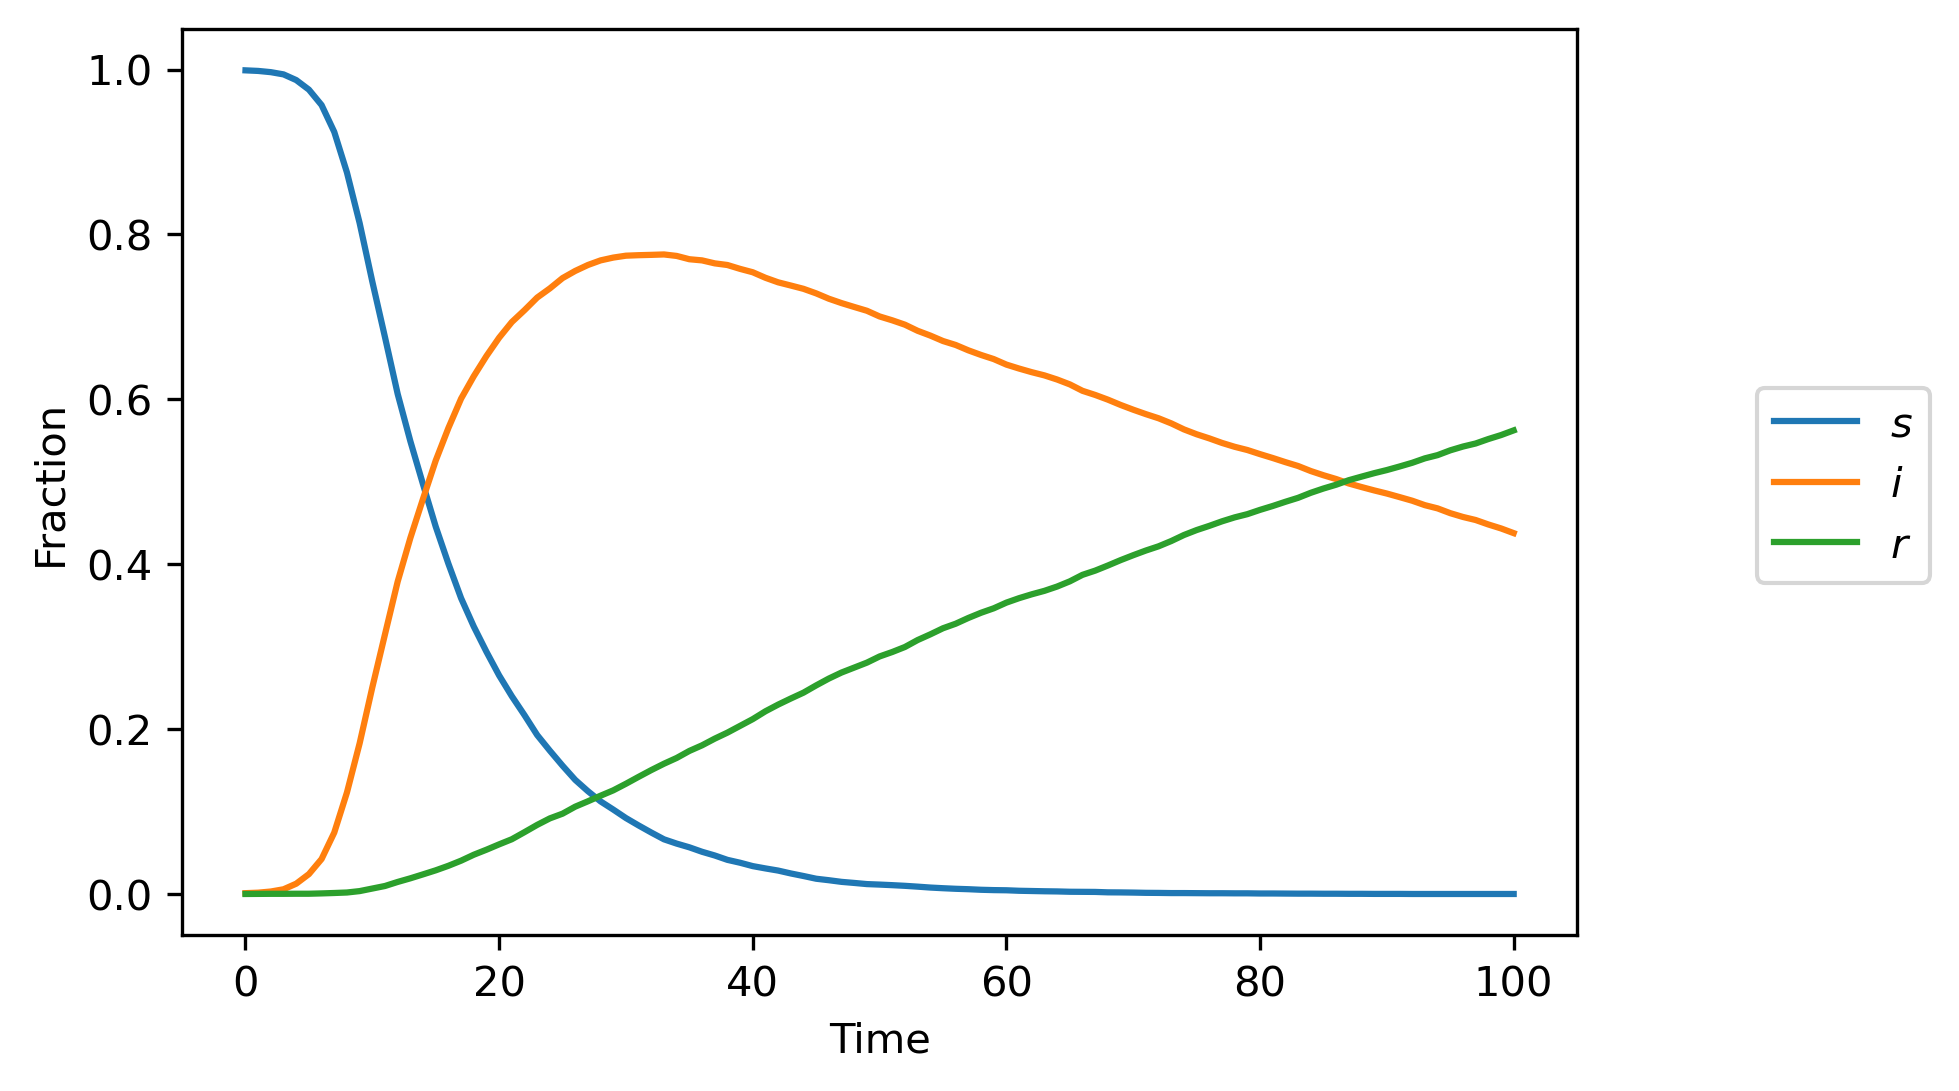
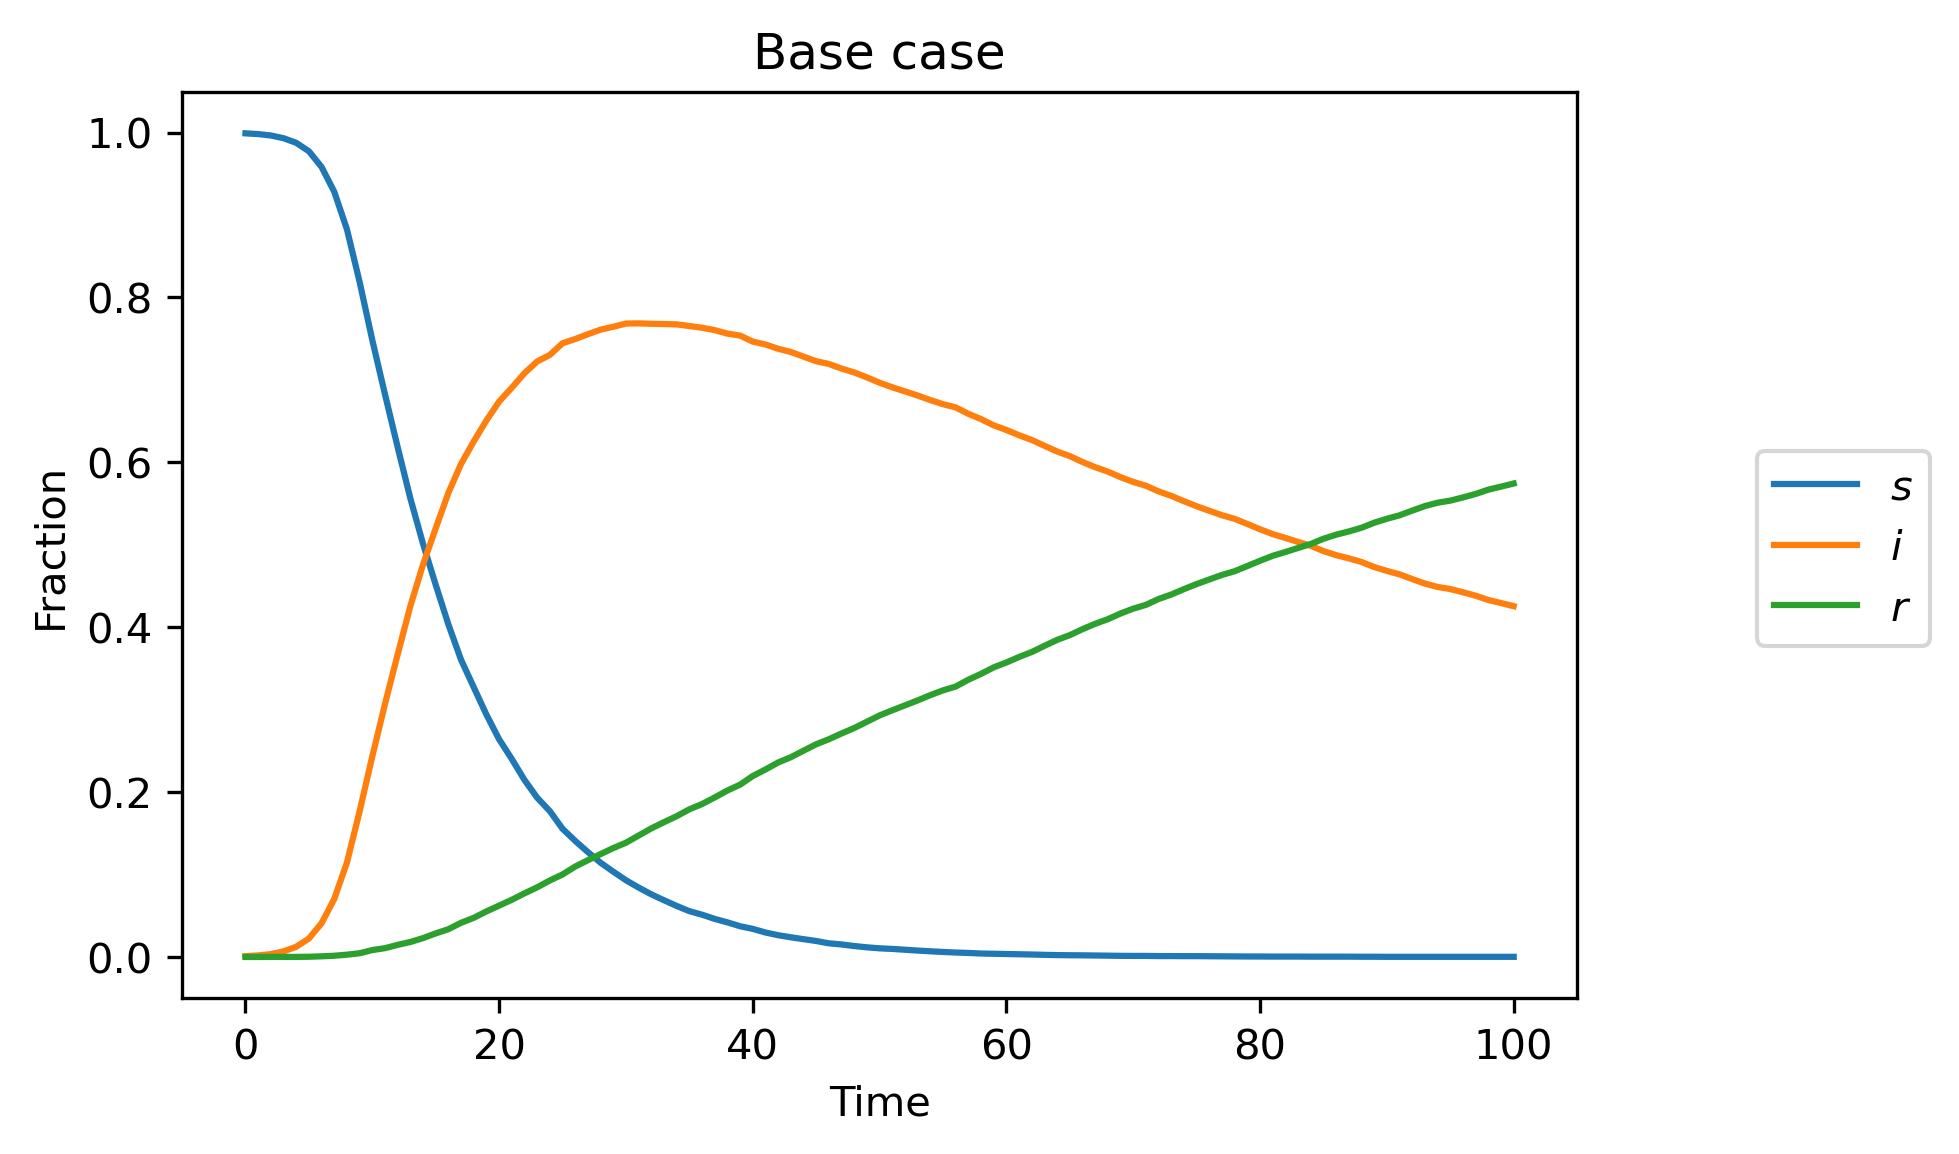
write report section varparm agent

diff --git a/scripts/agent_varparm_simulation.py b/scripts/agent_varparm_simulation.py
@@ -6,7 +6,7 @@ import pandas as pd
 import matplotlib.pyplot as plt
 import copy
 
-def plot_sir(sirs, sirs2=None, event_time=None, save_as=None):
+def plot_sir(sirs, sirs2=None, event_time=None, title=None, save_as=None):
     """
     event_time: when sirs2 start to differ from sirs
     """
@@ -25,8 +25,11 @@ def plot_sir(sirs, sirs2=None, event_time=None, save_as=None):
 
     fig.legend(bbox_to_anchor=(1,0.5), loc="center left", borderaxespad=0)
 
+    if title:
+        plt.title(title)
+
     if save_as:
-        fig.savefig(f'../output/{save_as}.png', dpi=300, bbox_inches='tight')
+        fig.savefig(f'../docs/figs/{save_as}.png', dpi=300, bbox_inches='tight')
 
 
 # hyper parm
@@ -38,7 +41,7 @@ T = 100
 b, k, p = 10, 0.01, 0.1
 pop = PopulationVarparm(N,i0)
 sirs = pop.simulation(T=T, b=b, k=k, p=p)
-plot_sir(sirs, save_as='agent_varparm_base_case')
+plot_sir(sirs, title='Base case', save_as='agent_varparm_base_case')
 
 
 # social distancing
@@ -52,7 +55,22 @@ for prd, b_ in zip(bprds[1:], bs[1:]):
     sirs = np.vstack((sirs, pop0.simulation(T=prd, b=bs[0], k=k, p=p)[1:]))
     sirs_dist = np.vstack((sirs_dist, pop1.simulation(T=prd, b=b_, k=k, p=p)[1:]))
 
-plot_sir(sirs, sirs_dist, bprds[0], 'agent_varparm_social_distancing')
+plot_sir(sirs, sirs_dist, bprds[0], title='Early social distancing', save_as='agent_varparm_social_distancing_early')
+
+pop0 = PopulationVarparm(N,i0)
+bprds = [20, 50, 70]
+bs = [10, 3, 1]
+sirs = pop0.simulation(T=bprds[0], b=bs[0], k=k, p=p)
+pop1 = copy.copy(pop0)
+sirs_dist = copy.copy(sirs[-1])
+for prd, b_ in zip(bprds[1:], bs[1:]):
+    sirs = np.vstack((sirs, pop0.simulation(T=prd, b=bs[0], k=k, p=p)[1:]))
+    sirs_dist = np.vstack((sirs_dist, pop1.simulation(T=prd, b=b_, k=k, p=p)[1:]))
+
+plot_sir(sirs, sirs_dist, bprds[0], title='Late social distancing', save_as='agent_varparm_social_distancing_late')
+
+
+
 
 # drug developement and distribution
 pop0 = PopulationVarparm(N,i0)
@@ -65,7 +83,26 @@ for prd, k_ in zip(kprds[1:], ks[1:]):
     sirs = np.vstack((sirs, pop0.simulation(T=prd, b=b, k=ks[0], p=p)[1:]))
     sirs_drug = np.vstack((sirs_drug, pop1.simulation(T=prd, b=b, k=k_, p=p)[1:]))
 
-plot_sir(sirs, sirs_drug, kprds[0], 'agent_varparm_drug')
+plot_sir(sirs, sirs_drug, kprds[0], title='Early drug developement and distribution', save_as='agent_varparm_drug_early')
+
+pop0 = PopulationVarparm(N,i0)
+kprds = [30, 40, 30]
+ks = [0.01, 0.1, 0.8]
+sirs = pop0.simulation(T=kprds[0], b=b, k=ks[0], p=p)
+pop1 = copy.copy(pop0)
+sirs_drug = copy.copy(sirs[-1])
+for prd, k_ in zip(kprds[1:], ks[1:]):
+    sirs = np.vstack((sirs, pop0.simulation(T=prd, b=b, k=ks[0], p=p)[1:]))
+    sirs_drug = np.vstack((sirs_drug, pop1.simulation(T=prd, b=b, k=k_, p=p)[1:]))
+
+plot_sir(sirs, sirs_drug, kprds[0], title='Late drug developement and distribution', save_as='agent_varparm_drug_late')
+
+
+
+
+
+
+
 
 # virus mutation
 pop0 = PopulationVarparm(N,i0)
@@ -77,8 +114,19 @@ sirs_mut = copy.copy(sirs[-1])
 for prd, p_ in zip(pprds[1:], ps[1:]):
     sirs = np.vstack((sirs, pop0.simulation(T=prd, b=b, k=k, p=ps[0])[1:]))
     sirs_mut = np.vstack((sirs_mut, pop1.simulation(T=prd, b=b, k=k, p=p_)[1:]))
-plot_sir(sirs, sirs_mut, pprds[0], 'agent_varparm_mutation')
+plot_sir(sirs, sirs_mut, pprds[0], title='Early virus mutation', save_as='agent_varparm_mutation_early')
 
+# virus mutation
+pop0 = PopulationVarparm(N,i0)
+pprds = [80, 20]
+ps = [0.1, 0.8]
+sirs = pop0.simulation(T=pprds[0], b=b, k=k, p=ps[0])
+pop1 = copy.copy(pop0)
+sirs_mut = copy.copy(sirs[-1])
+for prd, p_ in zip(pprds[1:], ps[1:]):
+    sirs = np.vstack((sirs, pop0.simulation(T=prd, b=b, k=k, p=ps[0])[1:]))
+    sirs_mut = np.vstack((sirs_mut, pop1.simulation(T=prd, b=b, k=k, p=p_)[1:]))
+plot_sir(sirs, sirs_mut, pprds[0], title='Late virus mutation', save_as='agent_varparm_mutation_late')
 
 
 

diff --git a/scripts/agent_seir_simulation.py b/scripts/agent_seir_simulation.py
@@ -145,7 +145,7 @@ def plot_phase_3d(bfks, its, cmap='OrRd', title=None, save_as=None):
     if save_as:
         plt.savefig(f'../output/{save_as}.png', dpi=300)
 
-grid_size = 7
+grid_size = 10
 bs = np.arange(grid_size)+1
 ks = np.logspace(-2,-0.5, grid_size)
 fs = np.logspace(-2,0, grid_size)
@@ -156,11 +156,11 @@ plot_phase_2d(bfks, itss[:,50], title=f't = {50}', save_as='agent_seir_phase_2d'
 plot_phase_3d(bfks, itss[:,50], title=f't = {50}', save_as='agent_seir_phase_3d')
 
 
-for t in range(T+1):
-    plot_phase_2d(bfks, itss[:,t], title=f't = {t}')
-    plt.show()
-
-
-for t in range(T+1):
-    plot_phase_3d(bfks, itss[:,t], title=f't = {t}')
-    plt.show()
+# for t in range(T+1):
+#     plot_phase_2d(bfks, itss[:,t], title=f't = {t}')
+#     plt.show()
+#
+#
+# for t in range(T+1):
+#     plot_phase_3d(bfks, itss[:,t], title=f't = {t}')
+#     plt.show()

diff --git a/scripts/test_plot.py b/scripts/test_plot.py
@@ -1,0 +1,3 @@
+import matplotlib.pyplot as plt
+plt.plot(range(10), range(10))
+plt.savefig('test_plot.png')

diff --git a/doc/final/README.md b/doc/final/README.md
@@ -1,4 +1,4 @@
-Our final report is published to a Github Page at
+Our final report is published on a Github Page at
 https://caam37830.github.io/project-group-4.
 
-The directory for this webpage is `/project-group-4/docs`.
+Since Github Page only allows the webpage directory to be either the repository root `/` or `/docs`, we moved our report document and figures to `/docs`.
